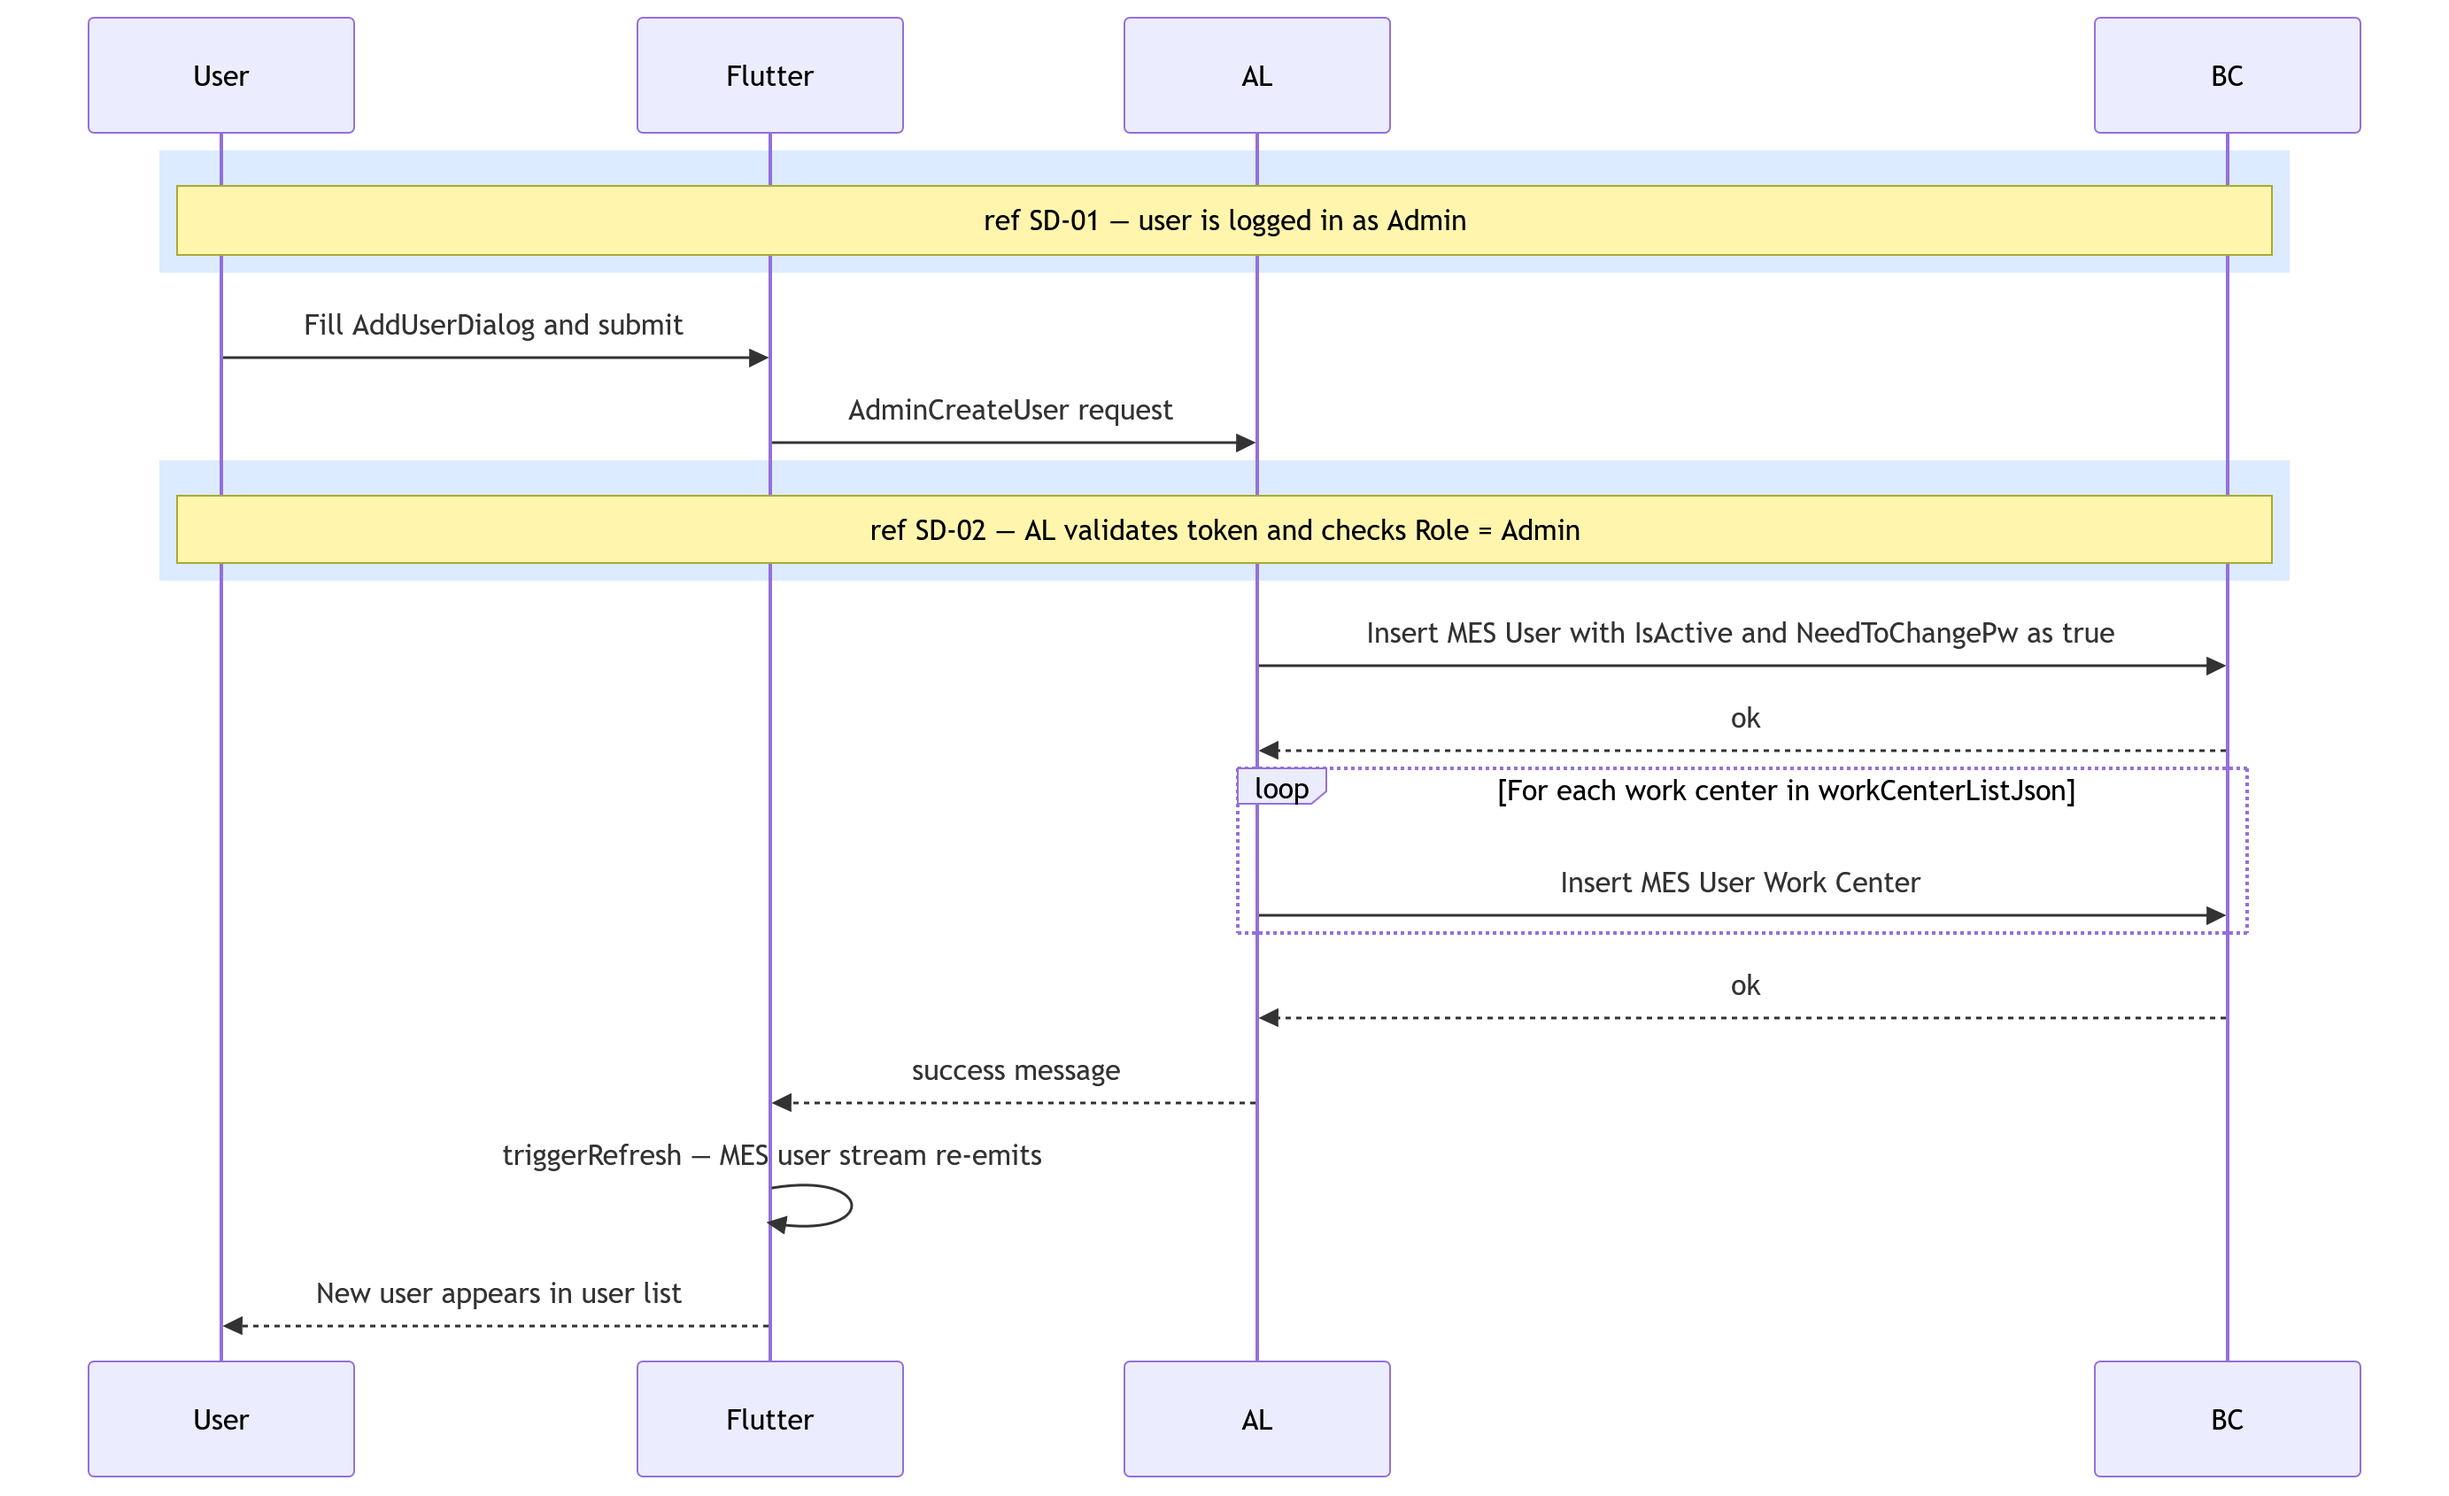
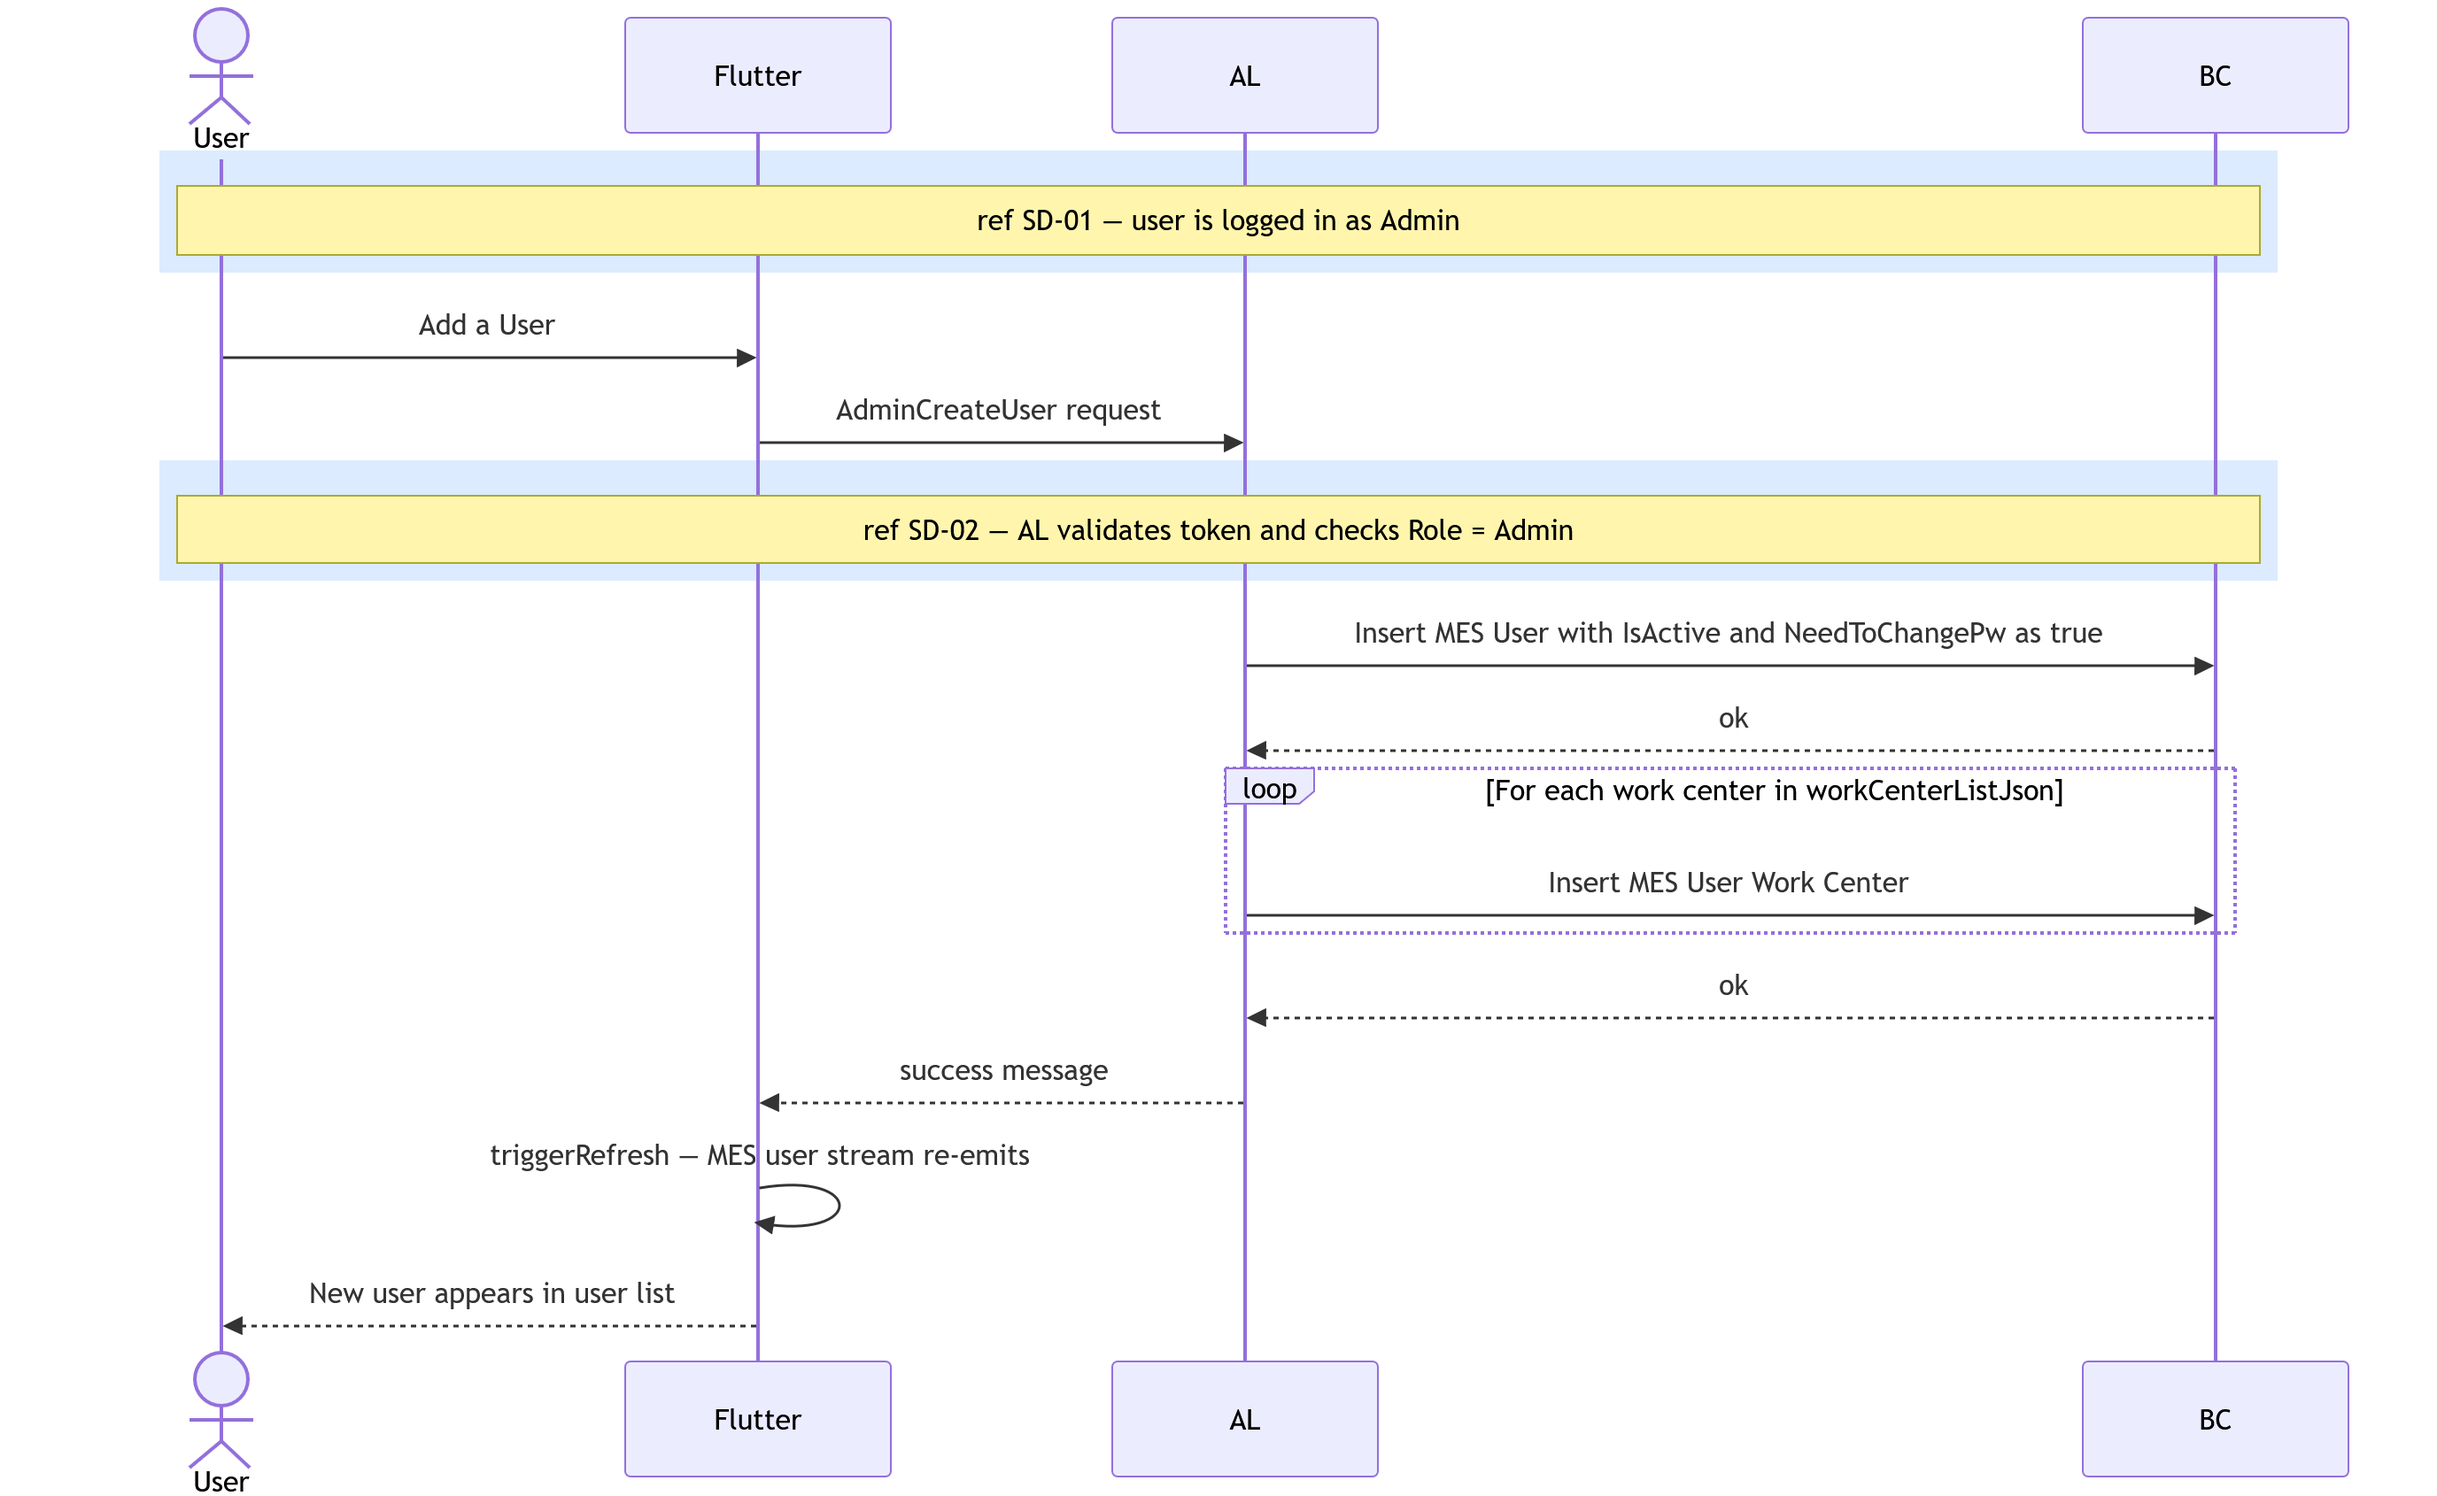
updated the usecase and sequence diagrams in the sprint 2
[sync_sprints:auto]

diff --git a/source/sprint2.tex b/source/sprint2.tex
@@ -275,10 +275,11 @@ This sprint covers \textbf{Domain 2:}
 
 \begin{figure}[H]
   \centering
-  \includegraphics[width=6in]{./media/MES_Sprint-2-Repport/diagrams/useCase/Screenshot_2026-03-16_124631.png}
+  \includegraphics[width=6in]{./media/MES_Sprint-2-Repport/diagrams/useCase/sprint2.png}
   \caption{UML Use Case Diagram --- Machine \& Production Management.}
   \label{fig:s2-use-case-diagram-s2}
 \end{figure}
+
 
 The UML Use Case Diagram (Figure~\ref{fig:s2-use-case-diagram-s2}) shows the two
 primary actors (\userrole{Operator} and \userrole{Supervisor}) and their
@@ -366,28 +367,129 @@ Figure~\ref{fig:s2-seq-fetch-ops-status} presents the fetch operations status fl
 
 \begin{figure}[H]
   \centering
-  \includegraphics[width=\linewidth,height=0.82\textheight,keepaspectratio]{./media/MES_Sprint-2-Repport/diagrams/sequence/fetch-machines.png}
-  \caption{Fetch Machines --- Sequence Diagram.}
+  \includegraphics[width=\linewidth,keepaspectratio]{./media/MES_Sprint-2-Repport/diagrams/sequence/fetch-machines.png}
+  \caption{SD-09: Fetch Machines.}
   \label{fig:s2-seq-fetch-machines}
 \end{figure}
 
+%=====SD-09==========================================================
+% sequenceDiagram
+%     actor User
+%     participant Flutter
+%     participant AL
+%     participant BC
+
+%     rect rgb(220,235,255)
+%         Note over User,BC: ref SD-01 — user is logged in workCenterIds resolved from userData;
+%     end
+
+%     loop Every 5 seconds per work center
+%         Flutter->>AL: FetchMachines request
+%         AL->>BC: Filter Machine Center by workCenterNo
+%         BC-->>AL: machine list
+%         loop For each machine
+%             AL->>BC: Get latest MES Machine Status row
+%             BC-->>AL: machine data
+%             AL->>BC: Get Work Center name
+%             BC-->>AL: name
+%         end
+%         AL-->>Flutter: request response
+%         Flutter->>Flutter: Rebuild MachineCard grid
+%         Flutter-->>User: Updated machine list
+%     end
+%====================================================================
+
 \begin{figure}[H]
   \centering
-  \includegraphics[width=\linewidth,height=0.82\textheight,keepaspectratio]{./media/MES_Sprint-2-Repport/diagrams/sequence/waiting-orders.png}
-  \caption{Get Machine Orders --- Sequence Diagram.}
+  \includegraphics[width=\linewidth,keepaspectratio]{./media/MES_Sprint-2-Repport/diagrams/sequence/waiting-orders.png}
+  \caption{SD-10: Get Machine Orders.}
   \label{fig:s2-seq-machine-orders}
 \end{figure}
+
+%=====SD-10==========================================================
+% sequenceDiagram
+%     actor User
+%     participant Flutter
+%     participant AL
+%     participant BC
+
+%     rect rgb(220,235,255)
+%         Note over User,BC: ref SD-01 — user is logged in
+%     end
+
+%     User->>Flutter: Open Orders tab
+%     Flutter->>AL: getMachineOrders request
+%     AL->>BC: Filter ProdOrderRoutingLine
+%     BC-->>AL: routing lines
+%     loop For each routing line
+%         AL->>BC: Check if operation started - skip if yes
+%         AL->>BC: Get ProdOrderLine
+%         BC-->>AL: line detail
+%     end
+%     AL-->>Flutter: orders data
+%     Flutter-->>User: OrderCard list
+%====================================================================
 
 \begin{figure}[H]
   \centering
   \includegraphics[width=\linewidth,height=0.82\textheight,keepaspectratio]{./media/MES_Sprint-2-Repport/diagrams/sequence/start-order.png}
-  \caption{Start Operation --- Sequence Diagram.}
+  \caption{SD-11: Start Operation.}
   \label{fig:s2-seq-start-operation}
+\end{figure}
+
+
+%=====SD-11==========================================================
+% sequenceDiagram
+%     actor User
+%     participant Flutter
+%     participant AL
+%     participant BC
+
+%     rect rgb(220,235,255)
+%         Note over User,BC: ref SD-01 — user is logged in and holds a valid token
+%     end
+%     rect rgb(220,235,255)
+%         Note over User,BC: ref SD-10 — machine orders loaded user selects a Released order
+%     end
+
+%     User->>Flutter: Tap Start on OrderCard
+%     Flutter->>AL: startOperation request
+
+%     rect rgb(220,235,255)
+%         Note over User,BC: ref SD-02 — AL validates token and resolves operatorId
+%     end
+
+%     AL->>BC: check the order is released
+%     BC-->>AL: routing line
+%     AL->>BC: Check that the Operation is not running
+%     AL->>BC: Check that the machine is not working
+%     BC-->>AL: clear
+%     alt Not Released or already running
+%         AL-->>Flutter: error message
+%         Flutter-->>User: Show error snackbar
+%     else Valid
+%         AL->>BC: Insert MES Operation Execution
+%         BC-->>AL: executionId
+%         AL->>BC: Insert MES Operation State
+%         AL->>BC: Insert MES Operation Progression
+%         AL->>BC: set machine as working
+%         AL->>BC: Insert MES User Execution Interaction
+%         BC-->>AL: ok
+%         AL-->>Flutter: request response
+%         Flutter->>User: redirect to Progress tab
+%     end
+%====================================================================
+
+\begin{figure}[H]
+  \centering
+  \includegraphics[height=0.30\textheight,keepaspectratio]{./media/MES_Sprint-2-Repport/placeholder-image.png}
+  \caption{Fetch Operation progress --- Sequence Diagram.}
+  \label{fig:s2-seq-fetch-progress}
 \end{figure}
 
 \begin{figure}[H]
   \centering
-  \includegraphics[width=\linewidth,height=0.82\textheight,keepaspectratio]{./media/MES_Sprint-2-Repport/placeholder-image.png}
+  \includegraphics[height=0.30\textheight,keepaspectratio]{./media/MES_Sprint-2-Repport/placeholder-image.png}
   \caption{Fetch Operation History --- Sequence Diagram.}
   \label{fig:s2-seq-fetch-history}
 \end{figure}

diff --git a/source/sprint1.tex b/source/sprint1.tex
@@ -327,12 +327,12 @@ including all success and error branches.
 \end{figure}%
 
 %=====SD-01==========================================================
-%sequenceDiagram
+% sequenceDiagram
 %    actor User
 %    participant Flutter
 %    participant AL
 %    participant BC
-%
+
 %    User->>Flutter: Enter AuthID + password
 %    Flutter->>AL: Login endpoint
 %    AL->>BC: Find the User 
@@ -370,14 +370,13 @@ including all success and error branches.
 %     participant Flutter
 %     participant AL
 %     participant BC
-%
-%     Flutter->>AL: any protected request (token, payload)
+
 %     AL->>BC: Get MES Auth Token
 %     BC-->>AL: token record
-%     AL->>AL: Check Validity
-%     AL->>BC: Get MES User (token.UserId)
+%     AL->>AL: Check token Validity
+%     AL->>BC: Get MES User record
 %     BC-->>AL: MES User record
-%     AL->>AL: Check IsActive = true
+%     AL->>AL: Check IsActive
 %     alt Token invalid / expired / revoked / user inactive
 %         AL-->>Flutter: error message
 %         Flutter-->>User: Show error & redirect to LoginPage
@@ -405,12 +404,12 @@ including all success and error branches.
 %     end
 
 %     User->>Flutter: Tap Logout
-%     Flutter->>AL: Logout(token)
-%     AL->>BC: Get MES Auth Token where Token = GUID
+%     Flutter->>AL: Logout request
+%     AL->>BC: Get Token record
 %     BC-->>AL: token record
-%     AL->>BC: Set Revoked = true, Modify
+%     AL->>BC: Revoke token
 %     BC-->>AL: ok
-%     AL-->>Flutter: {success: true}
+%     AL-->>Flutter: success message
 %     Flutter->>Flutter: Clear token + userData from AuthProvider
 %     Flutter-->>User: Navigate to LoginPage
 %====================================================================
@@ -425,7 +424,7 @@ including all success and error branches.
 
 %======SD-04=========================================================
 % sequenceDiagram
-%     participant User
+%     actor User
 %     participant Flutter
 %     participant AL
 %     participant BC
@@ -468,7 +467,7 @@ including all success and error branches.
 
 %=====SD:05==========================================================
 % sequenceDiagram
-%     participant User
+%     actor User
 %     participant Flutter
 %     participant AL
 %     participant BC
@@ -477,7 +476,7 @@ including all success and error branches.
 %         Note over User,BC: ref SD-01 — user is logged in as Admin
 %     end
 
-%     User->>Flutter: Fill AddUserDialog and submit
+%     User->>Flutter: Add a User
 %     Flutter->>AL: AdminCreateUser request
 
 %     rect rgb(220,235,255)
@@ -506,7 +505,7 @@ including all success and error branches.
 
 %=====SD-06==========================================================
 % sequenceDiagram
-%     participant User
+%     actor User
 %     participant Flutter
 %     participant AL
 %     participant BC
